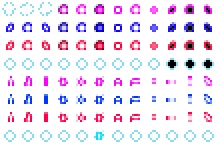
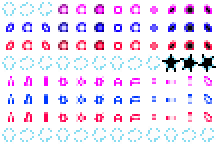
Map progress + Star Bullets

Changed region(s): [[0.0, 0.3611, 1.0, 0.5], [0.0, 0.8889, 1.0, 1.0]]

diff --git a/C250Project/js/plugins.js b/C250Project/js/plugins.js
@@ -17,7 +17,7 @@ var $plugins =
 {"name":"Irina_VisualNovelBusts","status":true,"description":"<Irina_VisualNovelBusts> for RPG Maker MV version 1.6.2.","parameters":{"":"","BustDefaults":"","Bust0Default":"{\"AnchorX\":\"0.5\",\"AnchorY\":\"0.8\",\"ScaleX\":\"1\",\"ScaleY\":\"1\",\"ScreenX\":\"(Window_Base._faceWidth + 24) / 2 + this.standardPadding()\",\"ScreenY\":\"this.height\"}","Bust1Default":"{\"AnchorX\":\"0.5\",\"AnchorY\":\"1\",\"ScaleX\":\"1\",\"ScaleY\":\"1\",\"ScreenX\":\"Graphics.boxWidth * (1 / 12)\",\"ScreenY\":\"Graphics.boxHeight\"}","Bust2Default":"{\"AnchorX\":\"0.5\",\"AnchorY\":\"1\",\"ScaleX\":\"1\",\"ScaleY\":\"1\",\"ScreenX\":\"Graphics.boxWidth * (2 / 12)\",\"ScreenY\":\"Graphics.boxHeight\"}","Bust3Default":"{\"AnchorX\":\"0.5\",\"AnchorY\":\"1\",\"ScaleX\":\"1\",\"ScaleY\":\"1\",\"ScreenX\":\"Graphics.boxWidth * (3 / 12)\",\"ScreenY\":\"Graphics.boxHeight\"}","Bust4Default":"{\"AnchorX\":\"0.5\",\"AnchorY\":\"1\",\"ScaleX\":\"1\",\"ScaleY\":\"1\",\"ScreenX\":\"Graphics.boxWidth * (4 / 12)\",\"ScreenY\":\"Graphics.boxHeight\"}","Bust5Default":"{\"AnchorX\":\"0.5\",\"AnchorY\":\"1\",\"ScaleX\":\"1\",\"ScaleY\":\"1\",\"ScreenX\":\"Graphics.boxWidth * (5 / 12)\",\"ScreenY\":\"Graphics.boxHeight\"}","Bust6Default":"{\"AnchorX\":\"0.5\",\"AnchorY\":\"1\",\"ScaleX\":\"1\",\"ScaleY\":\"1\",\"ScreenX\":\"Graphics.boxWidth * (7 / 12)\",\"ScreenY\":\"Graphics.boxHeight\"}","Bust7Default":"{\"AnchorX\":\"0.5\",\"AnchorY\":\"1\",\"ScaleX\":\"1\",\"ScaleY\":\"1\",\"ScreenX\":\"Graphics.boxWidth * (8 / 12)\",\"ScreenY\":\"Graphics.boxHeight\"}","Bust8Default":"{\"AnchorX\":\"0.5\",\"AnchorY\":\"1\",\"ScaleX\":\"1\",\"ScaleY\":\"1\",\"ScreenX\":\"Graphics.boxWidth * (9 / 12)\",\"ScreenY\":\"Graphics.boxHeight\"}","Bust9Default":"{\"AnchorX\":\"0.5\",\"AnchorY\":\"1\",\"ScaleX\":\"1\",\"ScaleY\":\"1\",\"ScreenX\":\"Graphics.boxWidth * (10 / 12)\",\"ScreenY\":\"Graphics.boxHeight\"}","Bust10Default":"{\"AnchorX\":\"0.5\",\"AnchorY\":\"1\",\"ScaleX\":\"1\",\"ScaleY\":\"1\",\"ScreenX\":\"Graphics.boxWidth * (11 / 12)\",\"ScreenY\":\"Graphics.boxHeight\"}","BustSettings":"","BustClearDuration":"20","BustAutoClear":"true","BustExpressionList":"[\"Angry\",\"Surprised\",\"Sad\"]","BustFadeDuration":"8","BustMoveDuration":"20","BustMoveType":"Linear","BustOpacityDuration":"20","BustScaleDuration":"20","BustSlideDistance":"144","BustSlideDuration":"20","BustToneDuration":"20","BustDimValues":"-68, -68, -68, 68","BustLightValues":"0, 0, 0, 0"}},
 {"name":"QPlus","status":true,"description":"<QPlus> (Should go above all Q Plugins)\r\nSome small changes to MV for easier plugin development.","parameters":{"Quick Test":"true","Default Enabled Switches":"[]","Ignore Mouse when inactive":"true"}},
 {"name":"QUpdate","status":false,"description":"<QUpdate>\r\nChecks QPlugins for updates","parameters":{}},
-{"name":"QMovement","status":true,"description":"<QMovement>\r\nMore control over character movement","parameters":{"Main Settings":"","Grid":"1","Tile Size":"48","Off Grid":"true","Optional Settings":"","Smart Move":"2","Mid Pass":"false","Move on click":"true","Diagonal":"true","Diagonal Speed":"0","Colliders":"","Player Collider":"{\"Type\":\"circle\",\"Width\":\"32\",\"Height\":\"12\",\"Offset X\":\"8\",\"Offset Y\":\"32\"}","Event Collider":"{\"Type\":\"box\",\"Width\":\"36\",\"Height\":\"24\",\"Offset X\":\"6\",\"Offset Y\":\"24\"}","Presets":"[\"{\\\"ID\\\":\\\"Player\\\",\\\"Type\\\":\\\"circle\\\",\\\"Width\\\":\\\"32\\\",\\\"Height\\\":\\\"14\\\",\\\"Offset X\\\":\\\"8\\\",\\\"Offset Y\\\":\\\"32\\\"}\",\"{\\\"ID\\\":\\\"characters\\\",\\\"Type\\\":\\\"box\\\",\\\"Width\\\":\\\"48\\\",\\\"Height\\\":\\\"14\\\",\\\"Offset X\\\":\\\"-4\\\",\\\"Offset Y\\\":\\\"34\\\"}\",\"{\\\"ID\\\":\\\"evidence\\\",\\\"Type\\\":\\\"box\\\",\\\"Width\\\":\\\"64\\\",\\\"Height\\\":\\\"64\\\",\\\"Offset X\\\":\\\"-18\\\",\\\"Offset Y\\\":\\\"16\\\"}\",\"{\\\"ID\\\":\\\"Cursor\\\",\\\"Type\\\":\\\"box\\\",\\\"Width\\\":\\\"30\\\",\\\"Height\\\":\\\"30\\\",\\\"Offset X\\\":\\\"9\\\",\\\"Offset Y\\\":\\\"0\\\"}\",\"{\\\"ID\\\":\\\"doors\\\",\\\"Type\\\":\\\"box\\\",\\\"Width\\\":\\\"84\\\",\\\"Height\\\":\\\"162\\\",\\\"Offset X\\\":\\\"6\\\",\\\"Offset Y\\\":\\\"-114\\\"}\",\"{\\\"ID\\\":\\\"empty\\\",\\\"Type\\\":\\\"box\\\",\\\"Width\\\":\\\"0\\\",\\\"Height\\\":\\\"0\\\",\\\"Offset X\\\":\\\"0\\\",\\\"Offset Y\\\":\\\"0\\\"}\",\"{\\\"ID\\\":\\\"smallTables\\\",\\\"Type\\\":\\\"box\\\",\\\"Width\\\":\\\"48\\\",\\\"Height\\\":\\\"26\\\",\\\"Offset X\\\":\\\"6\\\",\\\"Offset Y\\\":\\\"32\\\"}\",\"{\\\"ID\\\":\\\"beds\\\",\\\"Type\\\":\\\"box\\\",\\\"Width\\\":\\\"174\\\",\\\"Height\\\":\\\"42\\\",\\\"Offset X\\\":\\\"-140\\\",\\\"Offset Y\\\":\\\"6\\\"}\",\"{\\\"ID\\\":\\\"leftChairs\\\",\\\"Type\\\":\\\"box\\\",\\\"Width\\\":\\\"54\\\",\\\"Height\\\":\\\"28\\\",\\\"Offset X\\\":\\\"18\\\",\\\"Offset Y\\\":\\\"20\\\"}\",\"{\\\"ID\\\":\\\"rightChairs\\\",\\\"Type\\\":\\\"box\\\",\\\"Width\\\":\\\"54\\\",\\\"Height\\\":\\\"28\\\",\\\"Offset X\\\":\\\"-18\\\",\\\"Offset Y\\\":\\\"20\\\"}\",\"{\\\"ID\\\":\\\"innerDoors\\\",\\\"Type\\\":\\\"box\\\",\\\"Width\\\":\\\"96\\\",\\\"Height\\\":\\\"48\\\",\\\"Offset X\\\":\\\"-48\\\",\\\"Offset Y\\\":\\\"6\\\"}\"]","Debug Settings":"","Show Colliders":"false"}},
+{"name":"QMovement","status":true,"description":"<QMovement>\r\nMore control over character movement","parameters":{"Main Settings":"","Grid":"1","Tile Size":"48","Off Grid":"true","Optional Settings":"","Smart Move":"2","Mid Pass":"false","Move on click":"true","Diagonal":"true","Diagonal Speed":"0","Colliders":"","Player Collider":"{\"Type\":\"circle\",\"Width\":\"32\",\"Height\":\"12\",\"Offset X\":\"8\",\"Offset Y\":\"32\"}","Event Collider":"{\"Type\":\"box\",\"Width\":\"36\",\"Height\":\"24\",\"Offset X\":\"6\",\"Offset Y\":\"24\"}","Presets":"[\"{\\\"ID\\\":\\\"Player\\\",\\\"Type\\\":\\\"circle\\\",\\\"Width\\\":\\\"32\\\",\\\"Height\\\":\\\"14\\\",\\\"Offset X\\\":\\\"8\\\",\\\"Offset Y\\\":\\\"32\\\"}\",\"{\\\"ID\\\":\\\"characters\\\",\\\"Type\\\":\\\"box\\\",\\\"Width\\\":\\\"48\\\",\\\"Height\\\":\\\"14\\\",\\\"Offset X\\\":\\\"-4\\\",\\\"Offset Y\\\":\\\"34\\\"}\",\"{\\\"ID\\\":\\\"evidence\\\",\\\"Type\\\":\\\"box\\\",\\\"Width\\\":\\\"64\\\",\\\"Height\\\":\\\"64\\\",\\\"Offset X\\\":\\\"-18\\\",\\\"Offset Y\\\":\\\"16\\\"}\",\"{\\\"ID\\\":\\\"Cursor\\\",\\\"Type\\\":\\\"box\\\",\\\"Width\\\":\\\"30\\\",\\\"Height\\\":\\\"30\\\",\\\"Offset X\\\":\\\"9\\\",\\\"Offset Y\\\":\\\"0\\\"}\",\"{\\\"ID\\\":\\\"doors\\\",\\\"Type\\\":\\\"box\\\",\\\"Width\\\":\\\"84\\\",\\\"Height\\\":\\\"162\\\",\\\"Offset X\\\":\\\"6\\\",\\\"Offset Y\\\":\\\"-114\\\"}\",\"{\\\"ID\\\":\\\"empty\\\",\\\"Type\\\":\\\"box\\\",\\\"Width\\\":\\\"0\\\",\\\"Height\\\":\\\"0\\\",\\\"Offset X\\\":\\\"0\\\",\\\"Offset Y\\\":\\\"0\\\"}\",\"{\\\"ID\\\":\\\"smallTables\\\",\\\"Type\\\":\\\"box\\\",\\\"Width\\\":\\\"48\\\",\\\"Height\\\":\\\"26\\\",\\\"Offset X\\\":\\\"6\\\",\\\"Offset Y\\\":\\\"32\\\"}\",\"{\\\"ID\\\":\\\"beds\\\",\\\"Type\\\":\\\"box\\\",\\\"Width\\\":\\\"174\\\",\\\"Height\\\":\\\"42\\\",\\\"Offset X\\\":\\\"-140\\\",\\\"Offset Y\\\":\\\"6\\\"}\",\"{\\\"ID\\\":\\\"leftChairs\\\",\\\"Type\\\":\\\"box\\\",\\\"Width\\\":\\\"54\\\",\\\"Height\\\":\\\"28\\\",\\\"Offset X\\\":\\\"18\\\",\\\"Offset Y\\\":\\\"20\\\"}\",\"{\\\"ID\\\":\\\"rightChairs\\\",\\\"Type\\\":\\\"box\\\",\\\"Width\\\":\\\"54\\\",\\\"Height\\\":\\\"28\\\",\\\"Offset X\\\":\\\"-18\\\",\\\"Offset Y\\\":\\\"20\\\"}\",\"{\\\"ID\\\":\\\"innerDoors\\\",\\\"Type\\\":\\\"box\\\",\\\"Width\\\":\\\"96\\\",\\\"Height\\\":\\\"48\\\",\\\"Offset X\\\":\\\"-48\\\",\\\"Offset Y\\\":\\\"6\\\"}\",\"{\\\"ID\\\":\\\"horizDoors\\\",\\\"Type\\\":\\\"box\\\",\\\"Width\\\":\\\"48\\\",\\\"Height\\\":\\\"162\\\",\\\"Offset X\\\":\\\"0\\\",\\\"Offset Y\\\":\\\"-108\\\"}\"]","Debug Settings":"","Show Colliders":"false"}},
 {"name":"QM RegionColliders","status":true,"description":"<QMRegionColliders>\r\nQMovement Addon: Allows you to add colliders on regions","parameters":{"json":"false","regionColliders":"[\"{\\\"id\\\":\\\"1\\\",\\\"type\\\":\\\"box\\\",\\\"width\\\":\\\"48\\\",\\\"height\\\":\\\"24\\\",\\\"ox\\\":\\\"0\\\",\\\"oy\\\":\\\"0\\\",\\\"note\\\":\\\"\\\"}\",\"{\\\"id\\\":\\\"2\\\",\\\"type\\\":\\\"box\\\",\\\"width\\\":\\\"48\\\",\\\"height\\\":\\\"24\\\",\\\"ox\\\":\\\"0\\\",\\\"oy\\\":\\\"24\\\",\\\"note\\\":\\\"\\\"}\"]"}},
 {"name":"QPathfind","status":true,"description":"<QPathfind>\r\nA* Pathfinding algorithm","parameters":{"Diagonals":"true","Any Angle":"true","Intervals":"100","Smart Wait":"60","Dash on Mouse":"false"}},
 {"name":"QSpeed","status":true,"description":"<QSpeed>\r\nAllows for custom Move speeds and an acceleration effect","parameters":{"Acceleration":"false","Duration":"15","Dash Inc":"0.00"}},
@@ -26,7 +26,7 @@ var $plugins =
 {"name":"QEvent","status":true,"description":"<QEvent>\r\nExtends Common Event functionality","parameters":{}},
 {"name":"QTouch","status":false,"description":"<QTouch>\r\nBetter mouse handling for MV","parameters":{"Mouse Decay":"60","Default Cursor":"","Pointer Cursor":""}},
 {"name":"QCamera","status":true,"description":"<QCamera>\r\nBetter Camera control","parameters":{"Offset":"0.50","Shift Y":"-54","Shift X":"0"}},
-{"name":"QInput","status":true,"description":"<QInput>\r\nAdds additional keys to Input class, and allows remapping keys.","parameters":{"Threshold":"0.5","Input Remap":"","Ok":"[\"#z\",\"#enter\",\"#space\",\"$A\"]","Escape / Cancel":"[\"#x\",\"#esc\",\"#insert\",\"#num0\",\"$B\"]","Menu":"[\"#esc\",\"$Start\"]","Shift":"[\"#shift\", \"#cancel\", \"$X\"]","Control":"[\"#ctrl\", \"#alt\"]","Tab":"[\"#c\",\"#tab\",\"$Y\"]","Pageup":"[\"#pageup\", \"#q\", \"$L1\"]","Pagedown":"[\"#x\",\"#pagedown\",\"#w\",\"$R1\"]","Left":"[\"#left\", \"#num4\", \"$LEFT\"]","Right":"[\"#right\", \"#num6\", \"$RIGHT\"]","Up":"[\"#up\", \"#num8\", \"$UP\"]","Down":"[\"#down\", \"#num2\", \"$DOWN\"]","Debug":"[\"#f9\"]","ControlKeys Remap":"","FPS":"f2","Streched":"f3","FullScreen":"f4","Restart":"f5","Console":"f8"}},
+{"name":"QInput","status":true,"description":"<QInput>\r\nAdds additional keys to Input class, and allows remapping keys.","parameters":{"Threshold":"0.5","Input Remap":"","Ok":"[\"#z\",\"#enter\",\"#space\",\"$A\"]","Escape / Cancel":"[\"#x\",\"#esc\",\"#insert\",\"#num0\",\"$B\"]","Menu":"[\"#esc\",\"$START\"]","Shift":"[\"#shift\", \"#cancel\", \"$X\"]","Control":"[\"#ctrl\", \"#alt\"]","Tab":"[\"#c\",\"#tab\",\"$Y\"]","Pageup":"[\"#pageup\", \"#q\", \"$L1\"]","Pagedown":"[\"#x\",\"#pagedown\",\"#w\",\"$R1\"]","Left":"[\"#left\", \"#num4\", \"$LEFT\"]","Right":"[\"#right\", \"#num6\", \"$RIGHT\"]","Up":"[\"#up\", \"#num8\", \"$UP\"]","Down":"[\"#down\", \"#num2\", \"$DOWN\"]","Debug":"[\"#f9\"]","ControlKeys Remap":"","FPS":"f2","Streched":"f3","FullScreen":"f4","Restart":"f5","Console":"f8"}},
 {"name":"QInputRemap","status":true,"description":"<QInputRemap>\r\nQInput Addon: Adds Key remapping to Options menu","parameters":{"Hide Keys":"[\"control\",\"pageup\"]","Disable Keys":"[]","Vocab":"","Vocab: Ok":"Action","Vocab: Escape":"Back","Vocab: Shift":"Focus Mode","Vocab: Control":"Control","Vocab: Tab":"Heavy Attack","Vocab: Pageup":"Pageup","Vocab: Pagedown":"Shoot","Vocab: Up":"Up","Vocab: Down":"Down","Vocab: Left":"Left","Vocab: Right":"Right"}},
 {"name":"SRD_SuperToolsEngine","status":false,"description":"The heart of all maker-style plugins; it adds a playtesting editor that can be opened with F12.","parameters":{"Connect Editor":"true","Auto Open Window":"false","Auto Move Window":"true","Menu Editor Exempt List":"[\"Window_BattleLog\",\"Window_MapName\"]"}},
 {"name":"SRD_HUDMaker","status":false,"description":"Allows developers to create their own map-based HUD through an in-game GUI window!","parameters":{"Active Updating":"false","Show During Events":"transparent","Map Global Condition":"","Battle Global Condition":"","Disable Delete Key":"true"}},

diff --git a/C250Project/js/plugins/RAV-BeatemupView.js b/C250Project/js/plugins/RAV-BeatemupView.js
@@ -38,8 +38,8 @@ function BeatEmUp() {
         }
         var event = $gameMap.event(eventID);
         var collider = event.collider();
-        xOffset = setXOffset / QMovement.tileSize;
-        yOffset = setYOffset / QMovement.tileSize;
+        xOffset = setXOffset;
+        yOffset = setYOffset;
         var prevX = event.px / QMovement.tileSize;
         var prevY = event.py / QMovement.tileSize;
         if (offsetsOn) {
